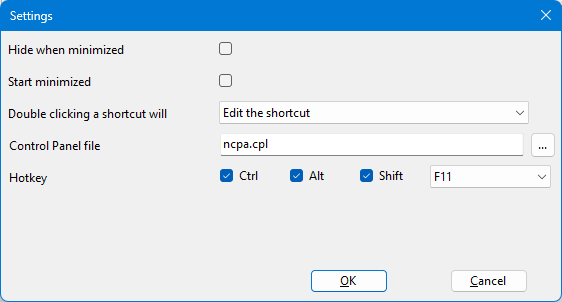
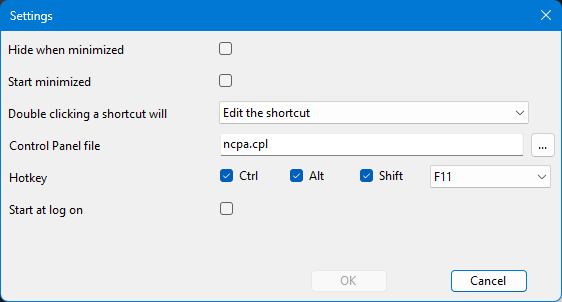
v1.0.4.0

diff --git a/frmSettings.Designer.cs b/frmSettings.Designer.cs
@@ -44,6 +44,8 @@
 			this.chkAlt = new CheckBox();
 			this.chkShift = new CheckBox();
 			this.cboHotkey = new ComboBox();
+			this.lblStartAtLogon = new Label();
+			this.chkStartAtLogon = new CheckBox();
 			this.helpProvider1 = new HelpProvider();
 			this.tableLayoutPanel1.SuspendLayout();
 			this.tableLayoutPanel2.SuspendLayout();
@@ -125,11 +127,14 @@
 			this.tableLayoutPanel3.Controls.Add(this.tableLayoutPanel4, 1, 3);
 			this.tableLayoutPanel3.Controls.Add(this.label3, 0, 4);
 			this.tableLayoutPanel3.Controls.Add(this.tableLayoutPanel5, 1, 4);
+			this.tableLayoutPanel3.Controls.Add(this.lblStartAtLogon, 0, 5);
+			this.tableLayoutPanel3.Controls.Add(this.chkStartAtLogon, 1, 5);
 			this.tableLayoutPanel3.Dock = DockStyle.Fill;
 			this.tableLayoutPanel3.Location = new Point(2, 2);
 			this.tableLayoutPanel3.Margin = new Padding(2);
 			this.tableLayoutPanel3.Name = "tableLayoutPanel3";
-			this.tableLayoutPanel3.RowCount = 6;
+			this.tableLayoutPanel3.RowCount = 7;
+			this.tableLayoutPanel3.RowStyles.Add(new RowStyle(SizeType.Absolute, 32F));
 			this.tableLayoutPanel3.RowStyles.Add(new RowStyle(SizeType.Absolute, 32F));
 			this.tableLayoutPanel3.RowStyles.Add(new RowStyle(SizeType.Absolute, 32F));
 			this.tableLayoutPanel3.RowStyles.Add(new RowStyle(SizeType.Absolute, 32F));
@@ -340,6 +345,29 @@
 			this.cboHotkey.TabIndex = 3;
 			this.cboHotkey.SelectedIndexChanged += this.cboHotkey_SelectedIndexChanged;
 			// 
+			// lblStartAtLogon
+			// 
+			this.lblStartAtLogon.AutoSize = true;
+			this.lblStartAtLogon.Dock = DockStyle.Fill;
+			this.lblStartAtLogon.Location = new Point(3, 160);
+			this.lblStartAtLogon.Name = "lblStartAtLogon";
+			this.lblStartAtLogon.Size = new Size(208, 32);
+			this.lblStartAtLogon.TabIndex = 9;
+			this.lblStartAtLogon.Text = "Start at log on";
+			this.lblStartAtLogon.TextAlign = ContentAlignment.MiddleLeft;
+			this.lblStartAtLogon.Click += this.lblStartAtLogon_Click;
+			// 
+			// chkStartAtLogon
+			// 
+			this.chkStartAtLogon.Anchor = AnchorStyles.Left;
+			this.chkStartAtLogon.AutoSize = true;
+			this.chkStartAtLogon.Location = new Point(217, 169);
+			this.chkStartAtLogon.Name = "chkStartAtLogon";
+			this.chkStartAtLogon.Size = new Size(15, 14);
+			this.chkStartAtLogon.TabIndex = 10;
+			this.chkStartAtLogon.UseVisualStyleBackColor = true;
+			this.chkStartAtLogon.CheckedChanged += this.chkStartAtLogon_CheckedChanged;
+			// 
 			// helpProvider1
 			// 
 			this.helpProvider1.HelpNamespace = "https://spectrumintegrators.github.io/IPAddressChanger/";
@@ -401,5 +429,7 @@
 		private CheckBox chkAlt;
 		private CheckBox chkShift;
 		private ComboBox cboHotkey;
+		private Label lblStartAtLogon;
+		private CheckBox chkStartAtLogon;
 	}
 }

diff --git a/frmSettings.cs b/frmSettings.cs
@@ -1,30 +1,25 @@
 using IPAddressChanger.Properties;
-using System;
-using System.Collections.Generic;
-using System.ComponentModel;
-using System.Data;
-using System.Drawing;
-using System.Linq;
-using System.Text;
-using System.Threading.Tasks;
-using System.Windows.Forms;
+using Microsoft.Win32.TaskScheduler;
 
 namespace IPAddressChanger {
 	public partial class frmSettings : Form {
 		internal frmMain mainForm { get; set; }
 
 		private bool controlsDirty = false;
+
+		private TaskService taskService = new();
+		private string taskName = $"{Application.ProductName} - {Environment.UserName}";
 		private void MarkDirty() {
 			controlsDirty = true;
 			cmdOK.Enabled = true;
 		}
 
 		private void LoadSettings() {
+			chkStartAtLogon.Checked = taskService.FindTask(taskName) != null;
 			chkCtrl.Checked = (Settings.Default.HotkeyModifier & (uint)IPAddressChanger.ModifierKeys.Control) != 0;
 			chkAlt.Checked = (Settings.Default.HotkeyModifier & (uint)IPAddressChanger.ModifierKeys.Alt) != 0;
 			chkShift.Checked = (Settings.Default.HotkeyModifier & (uint)IPAddressChanger.ModifierKeys.Shift) != 0;
 			cboHotkey.SelectedIndex = (int)(Settings.Default.Hotkey - 112);
-
 			chkHideWhenMinimized.Checked = Settings.Default.HideWhenMinimized;
 			cboShortcutDoubleClick.SelectedIndex = Settings.Default.ShortcutDoubleClick;
 			chkStartMinimized.Checked = Settings.Default.StartMinimized;
@@ -34,6 +29,17 @@ namespace IPAddressChanger {
 		}
 
 		private void SaveSettings() {
+			if (chkStartAtLogon.Checked) {
+				TaskDefinition td = taskService.NewTask();
+				td.RegistrationInfo.Description = $"Start {Application.ProductName} when {Environment.UserName} logs on";
+				td.Triggers.Add(new LogonTrigger() { UserId = Environment.UserName, Delay = new TimeSpan(0, 0, 30)});
+				td.Principal.RunLevel = TaskRunLevel.Highest;
+				td.Principal.UserId = Environment.UserName;
+				td.Actions.Add(new ExecAction(Application.ExecutablePath));
+				taskService.RootFolder.RegisterTaskDefinition(taskName, td);
+			} else {
+				taskService.RootFolder.DeleteTask(taskName, false);
+			}
 			Settings.Default.HideWhenMinimized = chkHideWhenMinimized.Checked;
 			Settings.Default.ShortcutDoubleClick = cboShortcutDoubleClick.SelectedIndex;
 			Settings.Default.StartMinimized = chkStartMinimized.Checked;
@@ -142,6 +148,15 @@ namespace IPAddressChanger {
 		}
 
 		private void cboHotkey_SelectedIndexChanged(object sender, EventArgs e) {
+			MarkDirty();
+		}
+
+		private void lblStartAtLogon_Click(object sender, EventArgs e) {
+			chkStartAtLogon.Checked = !chkStartAtLogon.Checked;
+			MarkDirty();
+		}
+
+		private void chkStartAtLogon_CheckedChanged(object sender, EventArgs e) {
 			MarkDirty();
 		}
 	}

diff --git a/frmMain.cs b/frmMain.cs
@@ -299,6 +299,8 @@ namespace IPAddressChanger {
 				this.WindowState = lastWindowState;
 			}
 			this.Activate();
+			notifyIcon1.Visible = false;
+			notifyIcon1.Visible = true;
 		}
 
 		private void SaveSettings() {
@@ -585,7 +587,6 @@ namespace IPAddressChanger {
 			NetworkAddressChangedEventHandler(AddressChangedCallback);
 			LoadShortcuts();
 			GetAdapters();
-			notifyIcon1.Visible = true;
 			if (Settings.Default.StartMinimized) {
 				this.WindowState = FormWindowState.Minimized;
 				if (Settings.Default.HideWhenMinimized) {
@@ -593,6 +594,7 @@ namespace IPAddressChanger {
 					this.Hide();
 				}
 			}
+			notifyIcon1.Visible = true;
 			debugForm.AddMessage("Main form loaded, application ready");
 		}
 

diff --git a/README.md b/README.md
@@ -3,7 +3,7 @@
 ## Overview
 This application allows changing IP address settings for network adapters from a quick list of user-defined configurations. IP addresses may be IPv4 or IPv6, or DHCP can be enabled. (IPv6 has not been tested.)
 
-The application requires elevated privileges and may only be run by a user who has administrator acces to the system.
+The application requires elevated privileges and may only be run by a user who has administrator access to the system.
 
 The network adapter settings functionality is provided by PowerShell. If PowerShell is restricted or disabled, the application will not function properly.
 
@@ -49,7 +49,7 @@ Deletes the currently selected shortcut.
 Edits the currently selected shortcut.
 
 #### Recall Shortcut
-Sets the adapter configuration information for the adapter referened in the curently selecte shortcut.
+Sets the adapter configuration information for the adapter referenced in the currently selected shortcut.
 
 #### Settings
 Displays the settings window.
@@ -58,7 +58,7 @@ Displays the settings window.
 Displays the debug messages window.
 
 #### Control Panel
-Launches the network adatpers control panel.
+Launches the network adapters control panel.
 
 #### Help
 Shows the program documentation.
@@ -69,9 +69,9 @@ Launches a browser window to submit bug reports and feedback.
 ### Status Bar
 
 ### Adapters List
-This list shows all of the network adapters present in the system. Each line shows the current adapter index (this may changed after a reboot but it doesn't affect the shortcuts), the adapter name, and its up/down state.
+This list shows all of the network adapters present in the system. Each line shows the current adapter index (this may changed after a reboot but it doesn't affect the shortcuts), the adapter name, and its up/down/disabled state. (The icons correspond to up, down, or disabled; they look awful right now, someday they'll look better.)
 
-Selecting an adapter will display additional details in the [Adapter Details](#adapter-details) area and associated addresses in the [Adapter Addresses List](#adapter-addresses-list).
+Selecting an adapter will display additional details in the [Adapter Details](#adapter-details) area and associated addresses in the [Adapter Addresses List](#adapter-addresses-list). Selecting a disabled adapter will only show "Adapter disabled" in the addresses list.
 
 Double-clicking an adapter will create a new shortcut for that adapter.
 
@@ -170,7 +170,7 @@ This window allows changing the functionality of the program.
 Hides the window from the task bar when it is minimized (it can be shown again from the [Notification Area Icon Menu](#notificaion-area-icon-menu)).
 
 ### Start minimized
-Automatically minimizes the application as soon as it launches. (If Hide when minimized is checked, it will also be hidden at launch.) The [Notification Area Icon](#notification-area-icon) is still available for shortcuts and to show the application.
+Automatically minimizes the application as soon as it launches. (If Hide when minimized is checked, it will also be hidden at launch.) The [Notification Area Icon](#notification-area-icon) is still available for shortcuts and to show the application. (The window may still appear briefly before minimizing; this is annoying but I haven't gotten around to fixing it yet.)
 
 ### Double clicking a shortcut will
 Chooses what action to perform when a shortcut from the [Shortcuts List](#shortcuts-list) is double-clicked: edit the selected shortcut, or recall the selected shortcut.
@@ -181,8 +181,12 @@ Path to the network adapters control panel file. This should be able to be left 
 ### Hotkey
 Pressing the key combination set here will show and bring the window to the front. (The default is `Ctrl + Alt + Shift + F11`)
 
+### Start at log on
+When this is checked, a task scheduler event is created to launch the program when you (you, not any other user) logs on to Windows. (Actually there's a 30 second delay because if it's too fast the taskbar icon doesn't get created and I can't be bothered to fix it.) The task is created to run with the highest privileges, so you won't get the UAC dialog if the program starts at log on.
+
 ### Resetting the Settings
 If for some reason your settings get hosed (for example, if somehow it stores the window size to be microscopically small), you can hold down the `Shift` key while the program launches to reset all of the settings to their default values.
+
 
 ## Debug Messages Window
 This window shows additional information about the actions the program is performing and the results of those actions. Note: this will delete all of your shortcuts too!
